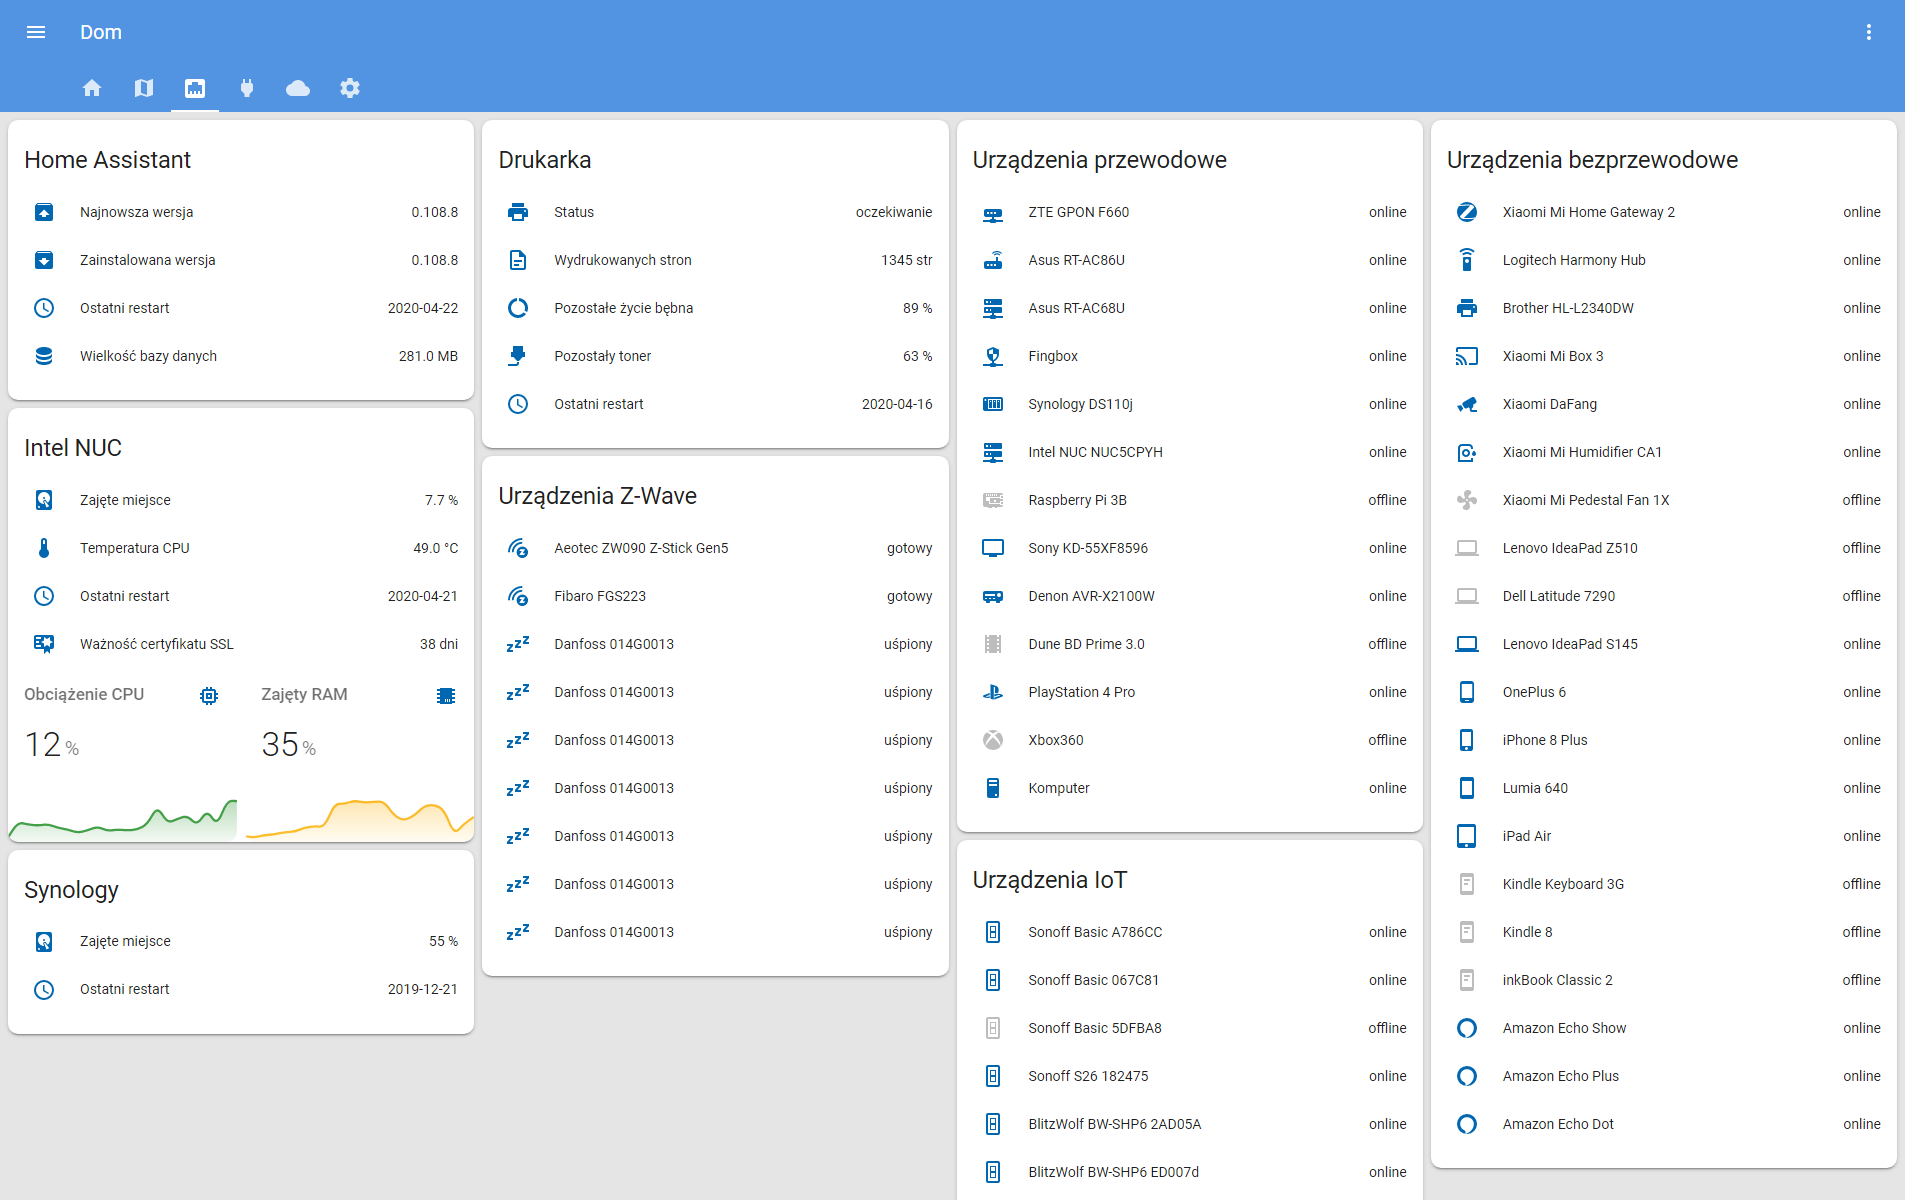
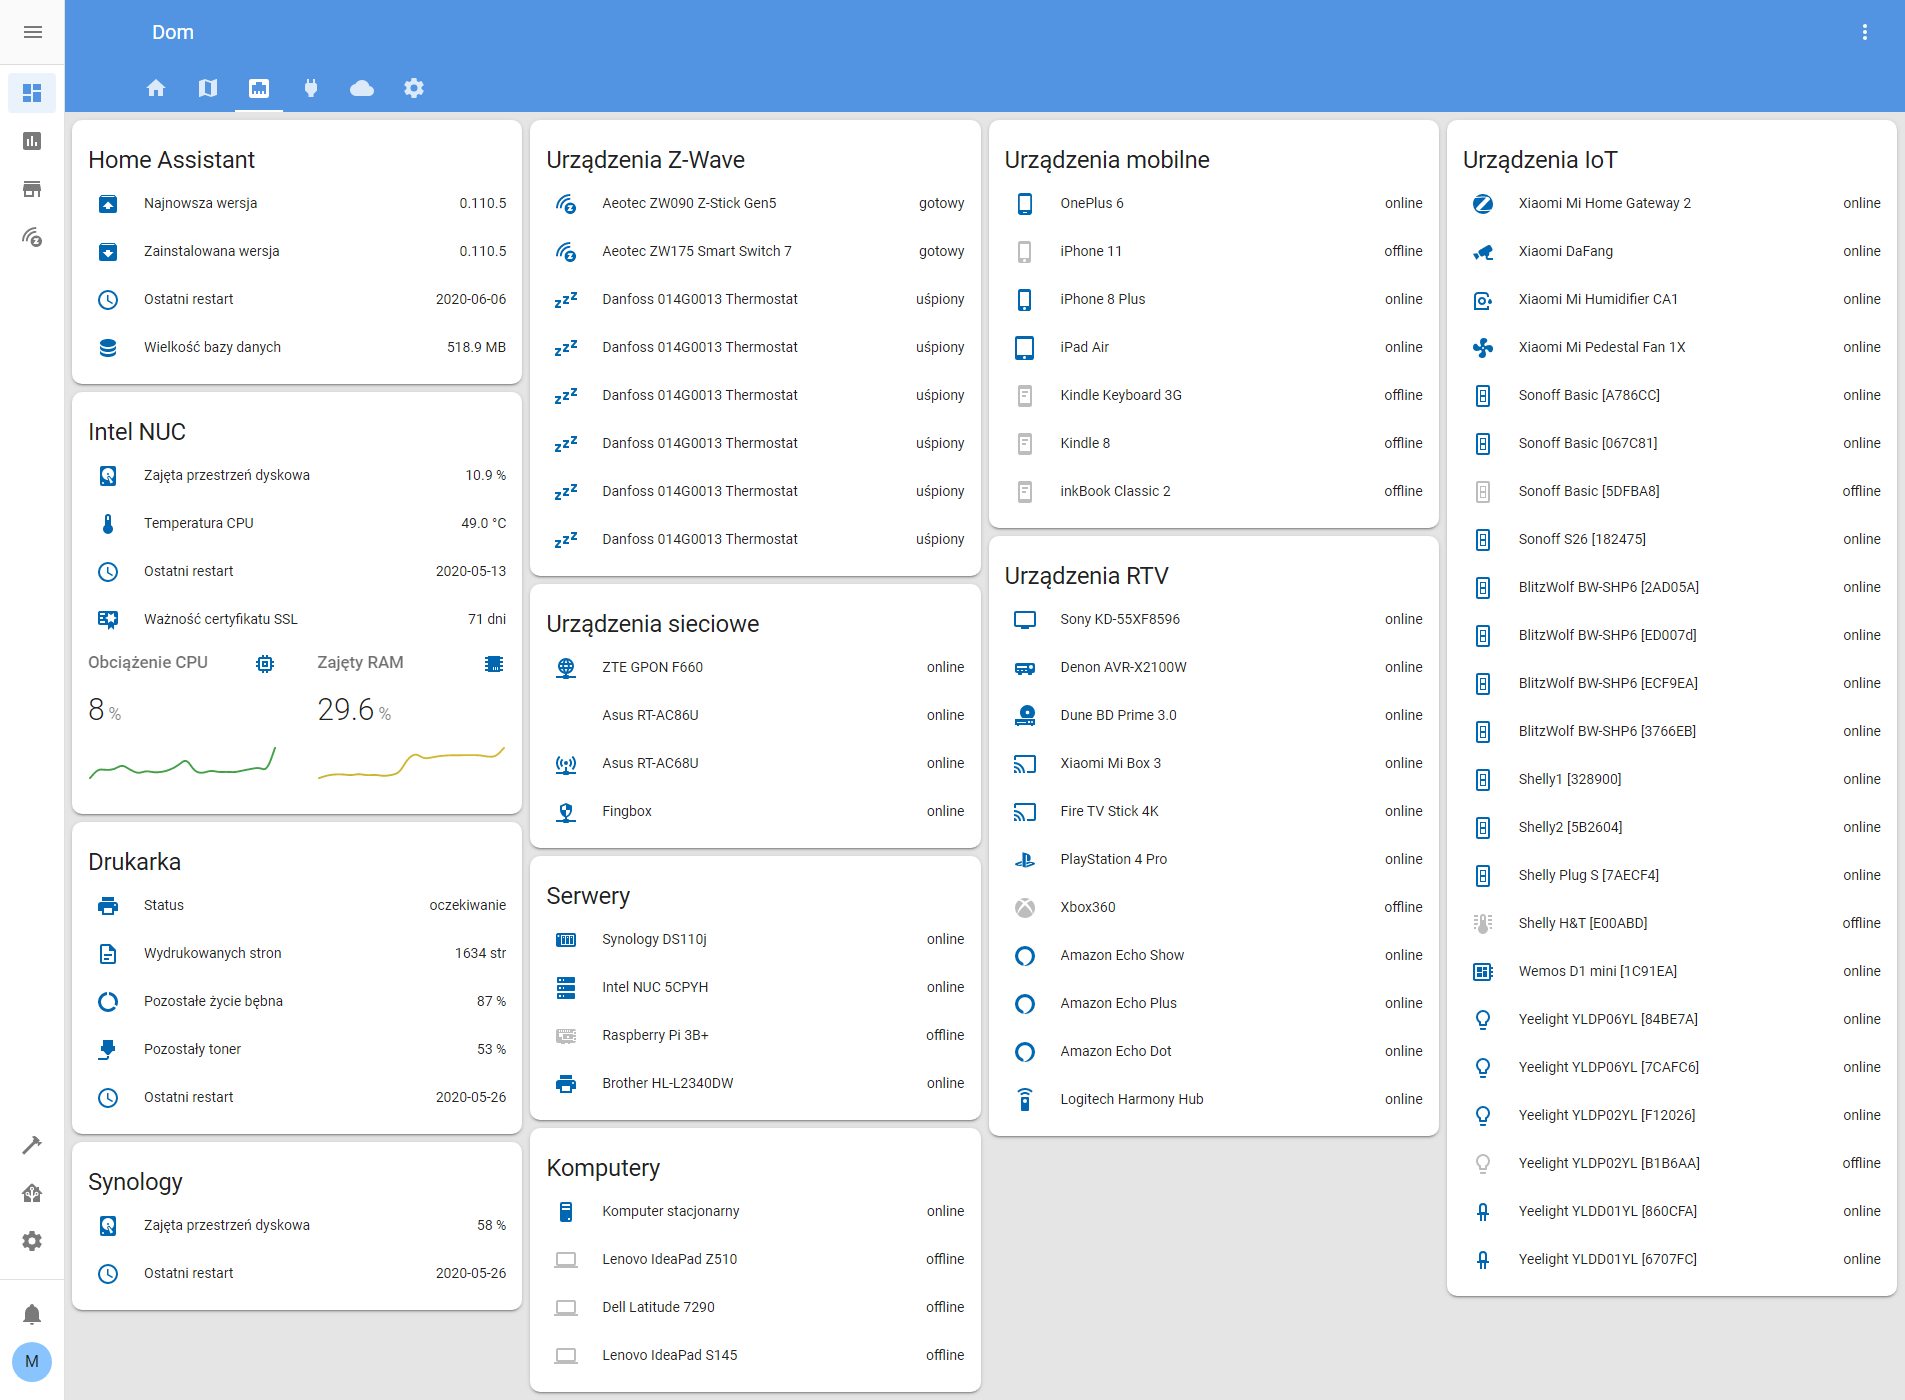
Update readme and screenshots

Changed region(s): [[0.0, 0.0, 1.0, 1.0]]

diff --git a/README.md b/README.md
@@ -12,8 +12,8 @@
 ## Z-Wave Devices
 
 * Aeotec ZW090 Z-Stick Gen5
+* Aeotec ZW175 Smart Switch 7
 * Danfoss 014G0013 Thermostats
-* Fibaro FGS223 Double Relay
 
 ## Xiaomi ZigBee Devices
 
@@ -44,21 +44,22 @@
 
 ## Other Integrated Devices
 
-* Logitech Harmony Ultimate [remote]
-* Denon AVR-X2100W [AV receiver]
+* Logitech Harmony Ultimate
+* Denon AVR-X2100W
 * PlayStation 4 Pro
 * Xiaomi Mi Smart Humidifier CA1
 * Xiaomi Mi Pedestal Fan 1X
-* Xiaomi Mi Box 4K [AndroidTV box]
-* Dune BD Prime 3.0 [network media player via AppDaemon script]
-* Synology DS110j [NAS]
-* Brother HL-L2340D [printer]
+* Xiaomi Mi Box 4K
+* Amazon Fire TV Stick 4K
+* Dune BD Prime 3.0
+* Synology DS110j
+* Brother HL-L2340D
 * iPhone/iPad [iOS [Home Assistant](https://itunes.apple.com/us/app/home-assistant-companion/id1099568401) app]
 * OnePlus 6 [Android [Home Assistant](https://play.google.com/store/apps/details?id=io.homeassistant.companion.android) app]
-* CyberPower DL650ELCD [UPS]
+* CyberPower DL650ELCD
 * Xiaomi DaFang [camera with [custom firmware](https://github.com/EliasKotlyar/Xiaomi-Dafang-Hacks)]
-* Sony Bravia TV (Android TV)
-* Amazon Echo Plus/Dot/Show (via Home Assistant Cloud)
+* Sony Bravia TV
+* Amazon Echo Plus/Dot/Show [via Home Assistant Cloud]
 
 ## Home Assistant Custom Components
 
@@ -67,6 +68,7 @@
 * [GIOS](https://github.com/bieniu/ha-gios)
 * [HACS](https://github.com/custom-components/hacs)
 * [iPhone Detect](https://github.com/mudape/iphonedetect)
+* [Xiaomi Mi Smart Pedestal Fan](https://github.com/syssi/xiaomi_fan)
 
 ## Custom Panels
 
@@ -74,18 +76,19 @@
 
 ## Lovelace Custom Cards
 
-* [card-mod](https://github.com/thomasloven/lovelace-card-mod)
+* [auto-entities](https://github.com/thomasloven/lovelace-auto-entities)
+* [battery-state-card](https://github.com/maxwroc/battery-state-card)
 * [bom-weather-card](https://github.com/DavidFW1960/bom-weather-card)
+* [canary](https://github.com/jcwillox/lovelace-canary)
+* [card-mod](https://github.com/thomasloven/lovelace-card-mod)
 * [mini-graph-card](https://github.com/kalkih/mini-graph-card)
 * [mini-media-player](https://github.com/kalkih/mini-media-player)
-* [auto-entities](https://github.com/thomasloven/lovelace-auto-entities)
-* [canary](https://github.com/jcwillox/lovelace-canary)
-* [battery-entity](https://github.com/cbulock/lovelace-battery-entity)
+* [simple=weather-card](https://github.com/kalkih/simple-weather-card)
+* [stack-in-card](https://github.com/custom-cards/stack-in-card)
 
 ## AppDaemon
 
 * [Update Z-Wave radiator thermostats states and current temperature](https://github.com/bieniu/ha-ad-thermostats-update)
-* DuneHD Activity
 
 ## Python Scripts
 
